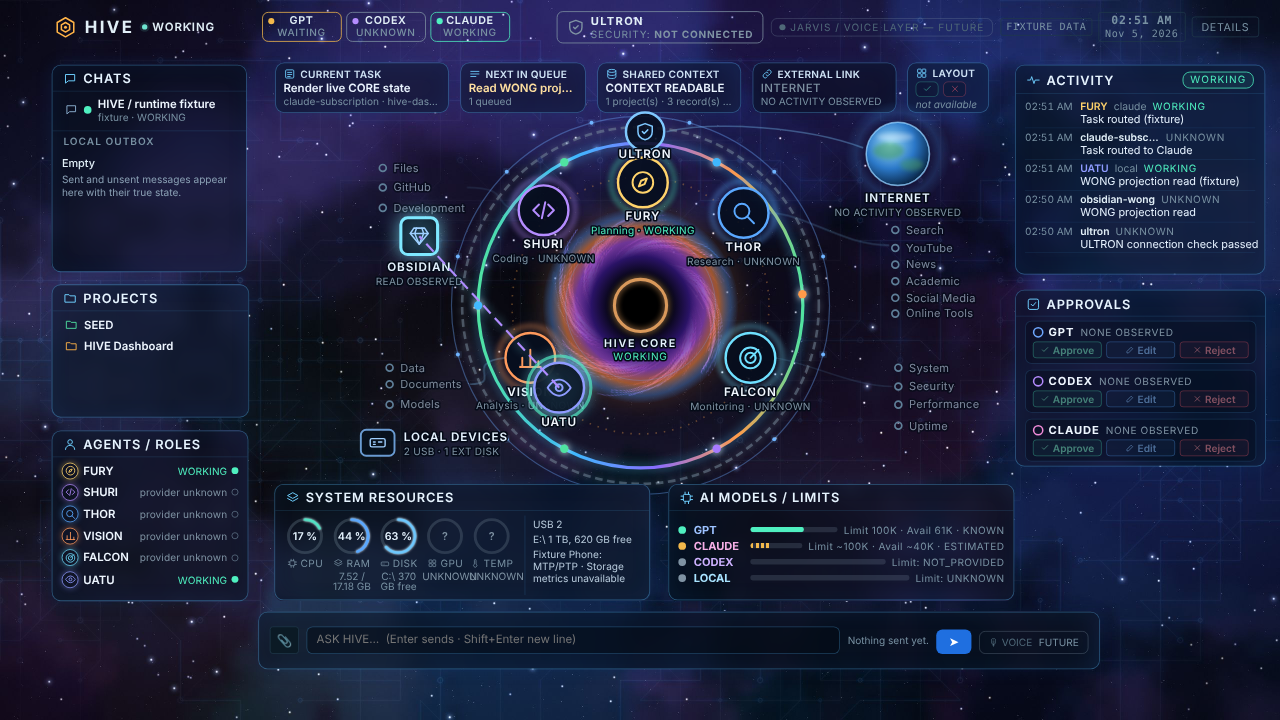
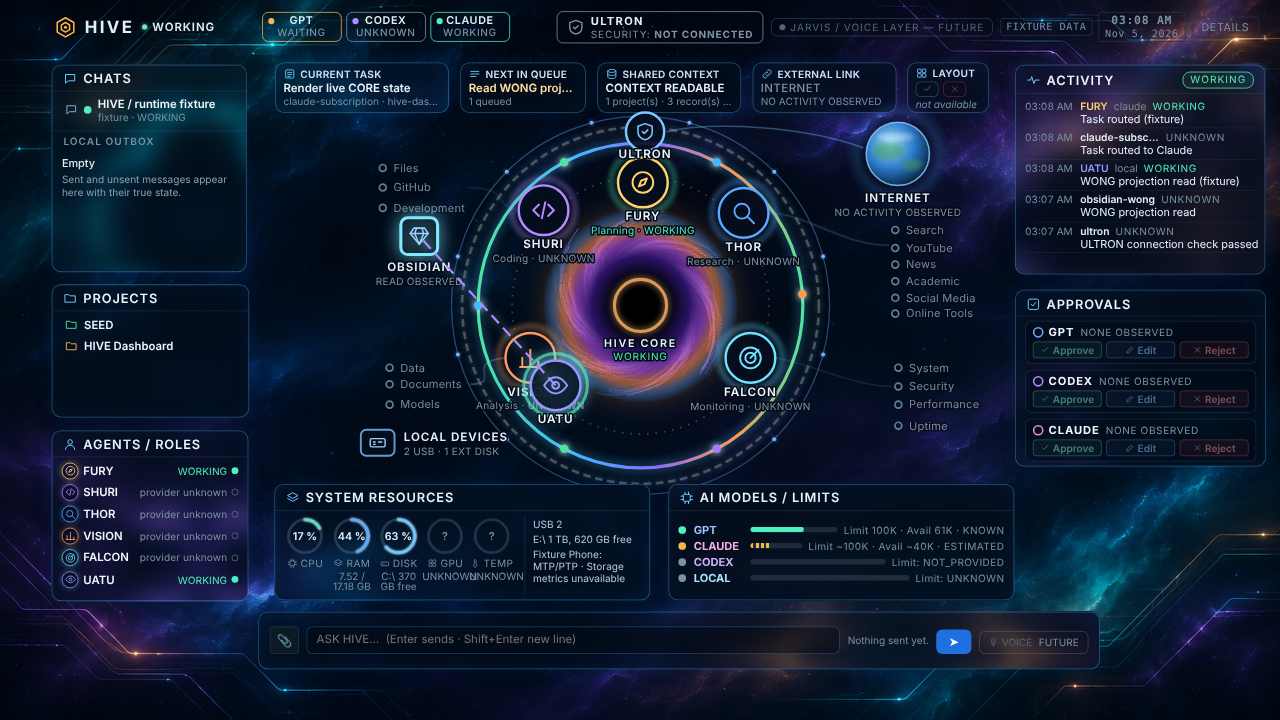
Use supplied wallpaper source via deterministic JPEG conversion (SHA-256 pinned); GAP-5 stays OPEN
Claude-Session: https://claude.ai/code/session_01H3kenukuoJUFG5vRsMZSQa

diff --git a/tests/test_assets.py b/tests/test_assets.py
@@ -17,7 +17,10 @@ from pathlib import Path
 
 ROOT = Path(__file__).resolve().parents[1]
 WALLPAPER = ROOT / "assets/hive-wallpaper.jpg"
-GENERATOR = ROOT / "tools/make_wallpaper.py"
+GENERATOR = ROOT / "tools/make_wallpaper.py"  # superseded; its never-draws-text guarantee is still tested
+CONVERTER = ROOT / "tools/convert_wallpaper.py"
+SOURCE = ROOT / "assets/src/hive-wallpaper-v1.png"
[1 lines of base64/hex data omitted]
 SHIPPED = ["index.html", "styles.css", "stage.css", "stage-layout.css", "app.js", "hive-core.js", "hive-ops.js"]
 
 
@@ -56,7 +59,17 @@ class WallpaperTests(unittest.TestCase):
         draw_calls = set(re.findall(r"\bd\.(\w+)\(", code))
         self.assertTrue(draw_calls <= {"line", "ellipse"}, draw_calls)
 
-    def test_wallpaper_is_reproducible_from_the_committed_generator(self):
+    def test_source_png_matches_the_pinned_sha256_and_the_converter_pins_the_same_hash(self):
+        import hashlib
+        self.assertEqual(hashlib.sha256(SOURCE.read_bytes()).hexdigest(), SOURCE_SHA256)
+        self.assertIn(SOURCE_SHA256.upper(), CONVERTER.read_text(encoding="utf-8"))
+
+    def test_converter_draws_nothing_and_uses_no_text_api(self):
+        code = CONVERTER.read_text(encoding="utf-8")
+        for forbidden in ("ImageDraw", ".text(", "ImageFont", "textbbox", "textlength", "truetype", "load_default", "putText"):
+            self.assertNotIn(forbidden, code)
+
+    def test_wallpaper_is_reproducible_from_the_pinned_source_by_the_converter(self):
         try:
             import numpy  # noqa: F401
             import PIL  # noqa: F401
@@ -64,14 +77,13 @@ class WallpaperTests(unittest.TestCase):
             self.skipTest("Pillow/numpy not installed (dev-time tools)")
         with tempfile.TemporaryDirectory() as tmp:
             out = Path(tmp) / "w.jpg"
-            subprocess.run([sys.executable, str(GENERATOR), "--out", str(out)], check=True, capture_output=True, timeout=120)
-            # same bytes on the same platform; JPEG encoders can differ across Pillow builds, so compare decoded size and a
-            # coarse content hash if the bytes differ
+            subprocess.run([sys.executable, str(CONVERTER), "--out", str(out)], check=True, capture_output=True, timeout=120)
+            # same bytes on the same Pillow build; JPEG encoders can differ across builds, so fall back to a coarse content check
             if out.read_bytes() != WALLPAPER.read_bytes():
                 from PIL import Image
                 a, b = Image.open(out).convert("L").resize((64, 36)), Image.open(WALLPAPER).convert("L").resize((64, 36))
                 diff = sum(abs(x - y) for x, y in zip(a.getdata(), b.getdata())) / (64 * 36)
-                self.assertLess(diff, 2.0, "generated wallpaper differs from the committed one")
+                self.assertLess(diff, 2.0, "converted wallpaper differs from the committed one")
 
     def test_wallpaper_is_dark_in_the_middle_where_live_art_sits(self):
         try:
@@ -106,7 +118,7 @@ class LocalOnlyTests(unittest.TestCase):
     def test_no_baked_text_assets_other_than_the_wallpaper_and_reference_images(self):
         images = sorted(p.relative_to(ROOT).as_posix() for p in ROOT.rglob("*") if p.suffix.lower() in {".png", ".jpg", ".jpeg", ".webp", ".gif"} and ".git" not in p.parts
                         and not p.as_posix().startswith(str(ROOT / "docs/hive/screenshots")) and "node_modules" not in p.parts)
-        self.assertEqual(images, ["assets/hive-wallpaper.jpg", "docs/assets/hive-core-reference.png", "docs/assets/hive-dashboard-target.png"])
+        self.assertEqual(images, ["assets/hive-wallpaper.jpg", "assets/src/hive-wallpaper-v1.png", "docs/assets/hive-core-reference.png", "docs/assets/hive-dashboard-target.png"])
 
 
 class LayoutFileTests(unittest.TestCase):

diff --git a/tools/convert_wallpaper.py b/tools/convert_wallpaper.py
@@ -1,0 +1,40 @@
+#!/usr/bin/env python3
+"""Convert the supplied wallpaper source to the dashboard's served JPEG, deterministically.
+
+Source : assets/src/hive-wallpaper-v1.png (SHA-256 pinned below; refuses to run on any other file)
+Output : assets/hive-wallpaper.jpg, 2560x1440
+Params : RGB, Image.LANCZOS resize straight to 2560x1440 (source is 1672x941, so this is a 1.53x upscale),
+         JPEG quality 90, 4:2:0 subsampling, optimize=True, progressive=False, no EXIF/ICC.
+This script draws nothing and never calls a text API. Dev-time tool (Pillow).
+Usage: python tools/convert_wallpaper.py [--out assets/hive-wallpaper.jpg] [--quality 90]
+"""
+from __future__ import annotations
+
+import argparse
+import hashlib
+from pathlib import Path
+
+from PIL import Image
+
+ROOT = Path(__file__).resolve().parents[1]
+SOURCE = ROOT / "assets/src/hive-wallpaper-v1.png"
[1 lines of base64/hex data omitted]
+SIZE = (2560, 1440)
+
+
+def convert(out: Path, quality: int) -> None:
+    digest = hashlib.sha256(SOURCE.read_bytes()).hexdigest()
+    if digest != SOURCE_SHA256:
+        raise SystemExit(f"source SHA-256 mismatch: {digest}")
+    im = Image.open(SOURCE).convert("RGB").resize(SIZE, Image.LANCZOS)
+    out.parent.mkdir(parents=True, exist_ok=True)
+    im.save(out, "JPEG", quality=quality, subsampling=2, optimize=True, progressive=False)
+
+
+if __name__ == "__main__":
+    ap = argparse.ArgumentParser()
+    ap.add_argument("--out", default=str(ROOT / "assets/hive-wallpaper.jpg"))
+    ap.add_argument("--quality", type=int, default=90)
+    a = ap.parse_args()
+    convert(Path(a.out), a.quality)
+    print("wrote", a.out)

diff --git a/tools/make_wallpaper.py b/tools/make_wallpaper.py
@@ -1,5 +1,6 @@
 #!/usr/bin/env python3
-"""Generate assets/hive-wallpaper.jpg: a purely decorative space + circuit wallpaper.
+"""SUPERSEDED as the served wallpaper source by tools/convert_wallpaper.py (kept for history; not run by the dashboard).
+Generate assets/hive-wallpaper.jpg: a purely decorative space + circuit wallpaper.
 
 Contents: nebula clouds, stars, faint circuit traces, a vignette. NOTHING ELSE:
 no text, digits, gauges, rings, panels, icons, logos or state colours. This script never calls any

diff --git a/docs/hive/HANDOFF_REPORT.md b/docs/hive/HANDOFF_REPORT.md
@@ -117,3 +117,10 @@ Architecture (local only, no new runtime): layer 0 `assets/hive-wallpaper.jpg` (
 **Visual deltas (measured, 1920x1080, target scaled x1.149):** panel rectangles equal the measured layout within 1.5 pp; ring centre within 2 px of viewport centre; agent homes within 1.5 px of measured polar positions (UATU appears displaced in the fixture capture because it is mid-trip). Orbit ring r 243.5 px vs target ~272 px (about 90 %).
 **Remaining differences (honest):** vortex is softer/less luminous than the target's bright swirling disk; ULTRON ring is gray unless a fresh ULTRON event exists (by design, target shows "ACTIVE"); connectors dimmer than target; rails look sparse in live mode (no invented rows); at 1280x720 two adjacent "UNKNOWN" gauge captions (GPU/TEMP) touch; target numbers/provider mappings/Admin/bell are deliberately absent. Windows rendering not verified (GAP-4/GAP-8). Not at visual parity; GAP-5 stays OPEN pending explicit owner acceptance.
 **Not part of this phase (noted only):** `server.py` and `fixture_server.py` serve any file under the repo root (pre-existing exposure).
+
+## 16. Supplied wallpaper integrated (GAP-5 stays OPEN)
[1 lines of base64/hex data omitted]
+- Conversion (`tools/convert_wallpaper.py`, refuses any other source hash, draws nothing): RGB, Lanczos resize straight to 2560x1440 (1.53x upscale, so it is soft by nature), JPEG quality 90, 4:2:0, optimize, non-progressive, no EXIF/ICC. Output `assets/hive-wallpaper.jpg` = 356,131 bytes (budget 650 KB), byte-identical on two runs. Centre luminance 10.2 vs corner 24.0 (limit 40, and < corner + 5).
+- Not touched: `hive-core.svg`, `hive-icons.svg`, `visual-tokens.css` (never imported), measured CORE geometry, `hive-core.js`, all DOM/state code. `tools/make_wallpaper.py` (previous procedural generator) is marked superseded and kept.
+- Tests: `tests/test_assets.py` 14 (was 12): added source-hash pin (test and converter), converter-draws-nothing, reproducibility now re-runs the converter from the pinned source; size, centre-darkness, generator-no-text, no-external-URL, relative-URL tests unchanged; the image allow-list gains only the source PNG. Full suite once: Python 282, ui_contract 20, Node 88, Playwright 7+10+11+5+15, all green.
+- Screenshots regenerated at 1280x720, 1920x1080, 2560x1440 (`hybrid-compare-*`, `overlay-after-*`). Only the 1920 compare was viewed after this change: real nebula and circuit traces behind the panels; no layout change. Remaining differences from section 15 are unchanged. Not at visual parity.

diff --git a/BUDGET_LEDGER.md b/BUDGET_LEDGER.md
@@ -77,3 +77,7 @@ Rough effort estimates against the USD 100 allocation (dollar spend is not obser
 - Files: new assets/hive-wallpaper.jpg, tools/{make_wallpaper.py,make_stage.py,make_compare.mjs}, stage.css, stage-layout.css, tests/test_assets.py, measurements (stage-layout-final.json, ours-after-*.json), screenshots (hybrid-*, overlay-after-*); changed index.html, app.js, hive-core.js, hive-ops.js, tests (core, ops, e2e shell/chat/system/visual), docs (HANDOFF_REPORT s15, ACCEPTANCE GAP-5).
 - Tests: Python 280, ui_contract 20, Node 88, Playwright 7+10+11+5+15, all green on Linux.
 - Subagents: still 5 of 8 (none used). Effort ~$14 (rough, not observed spend); running total about $77 of $100. Not started: P1.2, P1.3, any further visual iteration.
+
+## Supplied wallpaper integration (GAP-5 stays OPEN)
+- Verified SHA-256 of assets/src/hive-wallpaper-v1.png, added tools/convert_wallpaper.py, regenerated assets/hive-wallpaper.jpg (356 KB), updated tests/test_assets.py (+2 tests, reproducibility test re-pointed, nothing weakened), docs (HANDOFF_REPORT s16). One screenshot pass, full suite once (all green). No core/svg/icon/token assets used.
+- Subagents: still 5 of 8. Effort ~$2 (rough); running total about $79 of $100.
